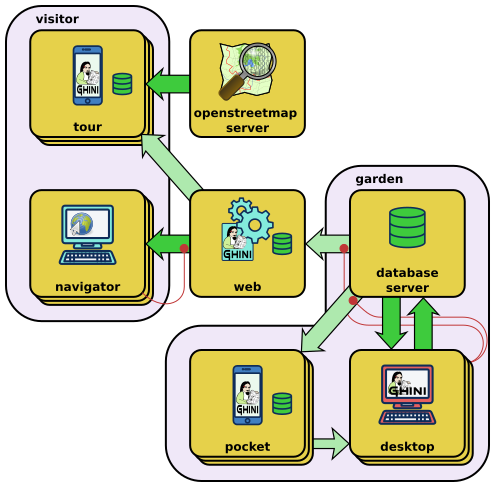
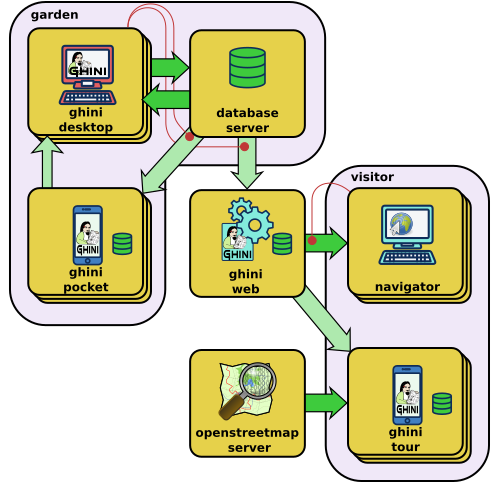
flipping, rotating, reorganizing family, and mentioning it early.

diff --git a/doc/index.rst b/doc/index.rst
@@ -8,15 +8,17 @@ Documentation for Ghini 1.0
 Ghini is a suite of applications for managing botanical specimen collections.
 
 * **ghini.desktop** lets you create and query a database representing objects and events in your plant collection.
+* **ghini.web** publishes highlights from your database on the web.
 * **ghini.pocket** puts a snapshot of your database in your handheld device.
-* **ghini.web** helps you publish part of your database on the web.
+* **ghini.tour** assists garden visitors with a map and spoken virtual panels.
+
+.. image:: images/ghini-family.png
 
 All Ghini software is `open <http://www.opensource.org>`_ and `free
 <http://www.fsf.org>`_. Our standalone software is released under the `GNU
 Public License <http://www.fsf.org/licensing/licenses/gpl.html>`_. Our
 client-server software follows the `GNU Affero Public License
 <http://www.fsf.org/licensing/licenses/agpl.html>`_.
-
 
 Statements
 ===================

diff --git a/doc/statements.rst b/doc/statements.rst
@@ -65,8 +65,3 @@ necessary changes in order to grow and prosper.
 * development
 * integration with web portal
 * geographic information
-
-The Ghini family
-..............................................
-
-.. image:: images/ghini-family.png
